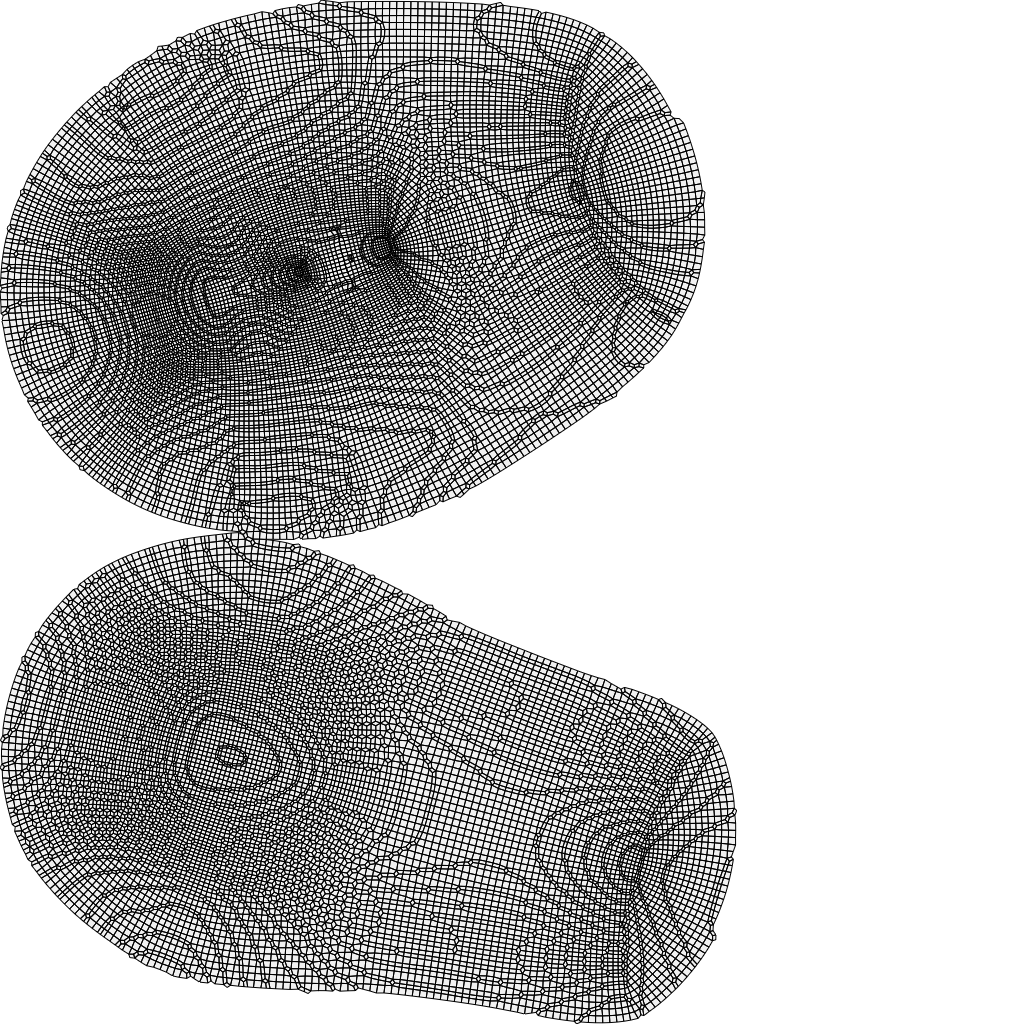
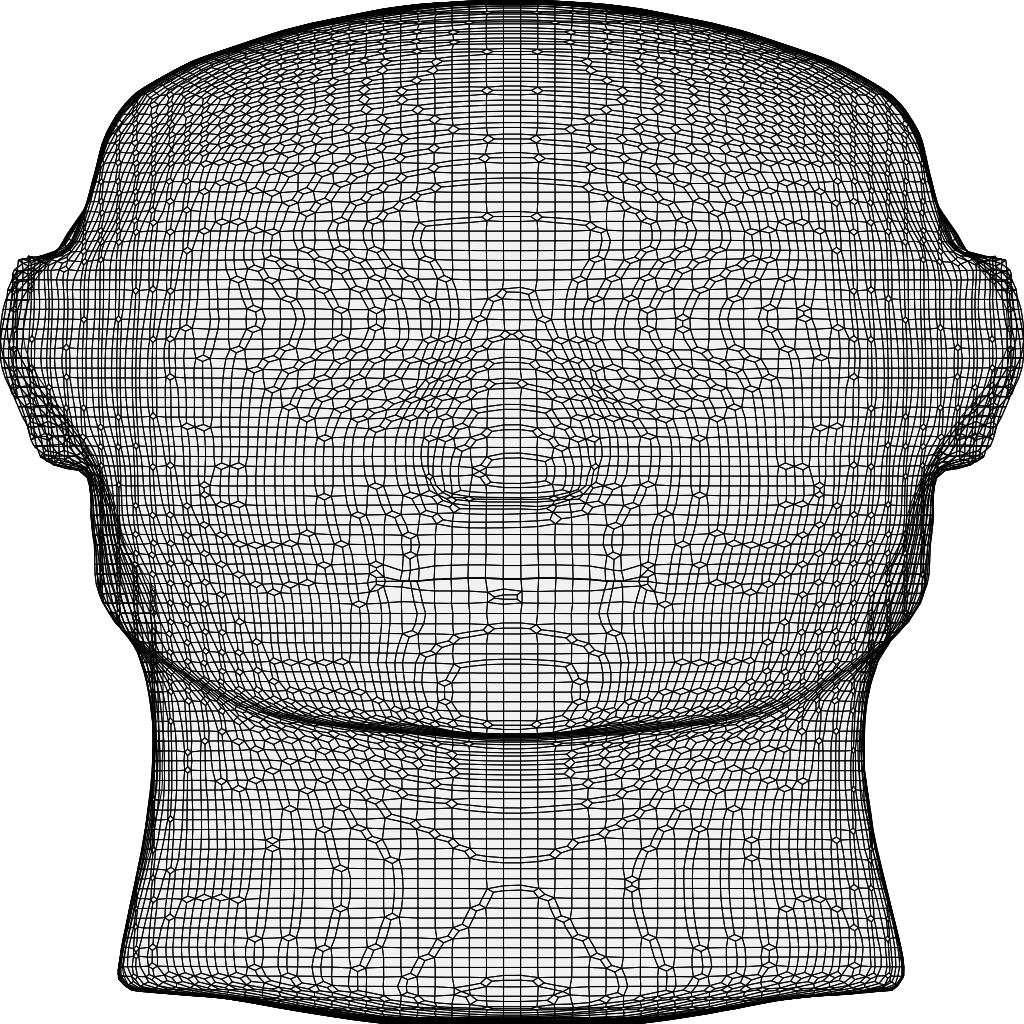
Updated UV map in 3D model

diff --git a/frontend/skinmax-frontend/src/components/FaceHeatmap/FaceViewer.jsx b/frontend/skinmax-frontend/src/components/FaceHeatmap/FaceViewer.jsx
@@ -10,23 +10,23 @@ function FaceModel() {
   const heatmapTexture = useMemo(() => {
     return createHeatmapTexture([
       {
-        u: 0.5,
-        v: 0.65,
+        u: 0.25,
+        v: 0.55,
         radius: 100,
       },
       {
-        u: 0.49,
-        v: 0.38,
+        u: 0.50,
+        v: 0.55,
         radius: 45,
       },
       {
-        u: 0.65,
-        v: 0.35,
-        radius: 90,
+        u: 0.50,
+        v: 0.85,
+        radius: 150,
       },
       {
-        u: 0.30,
-        v: 0.35,
+        u: 0.75,
+        v: 0.55,
         radius: 120,
       },
     ]);

diff --git a/frontend/skinmax-frontend/src/App.jsx b/frontend/skinmax-frontend/src/App.jsx
@@ -37,6 +37,16 @@ function App() {
           element={<AnalysisPage />}
         />
 
+        <Route
+          path="/weather"
+          element={<h1>Weather-Based Care (Coming Soon)</h1>}
+        />
+
+        <Route
+          path="/dermatologists"
+          element={<h1>Find Dermatologists (Coming Soon)</h1>}
+        />
+
       </Routes>
     </BrowserRouter>
   );

diff --git a/frontend/skinmax-frontend/src/components/Sidebar/Sidebar.jsx b/frontend/skinmax-frontend/src/components/Sidebar/Sidebar.jsx
@@ -47,6 +47,14 @@ export default function Sidebar() {
           Analysis
         </NavLink>
 
+        <NavLink to="/weather">
+          Weather-Based Care
+        </NavLink>
+
+        <NavLink to="/dermatologists">
+          Find Dermatologists
+        </NavLink>
+
         <a href="#">Progress</a>
 
         <a href="#">Routines</a>
@@ -65,6 +73,7 @@ export default function Sidebar() {
 
       <div className="bottom-links">
         <a href="#">Settings</a>
+
         <a href="#">Support</a>
 
         <button